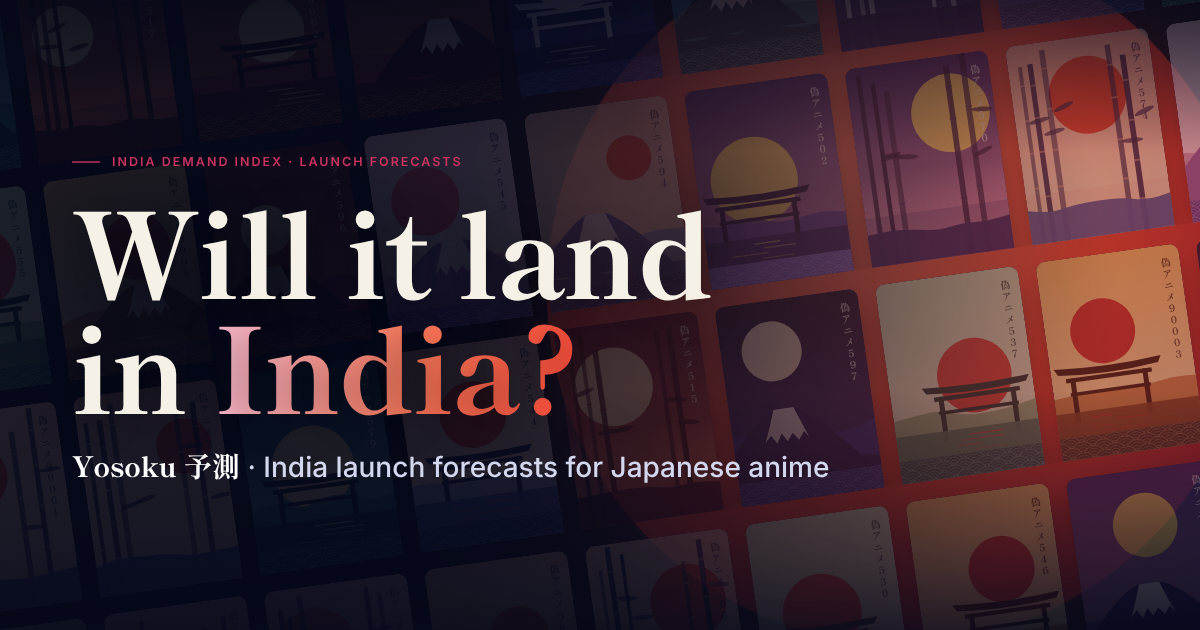
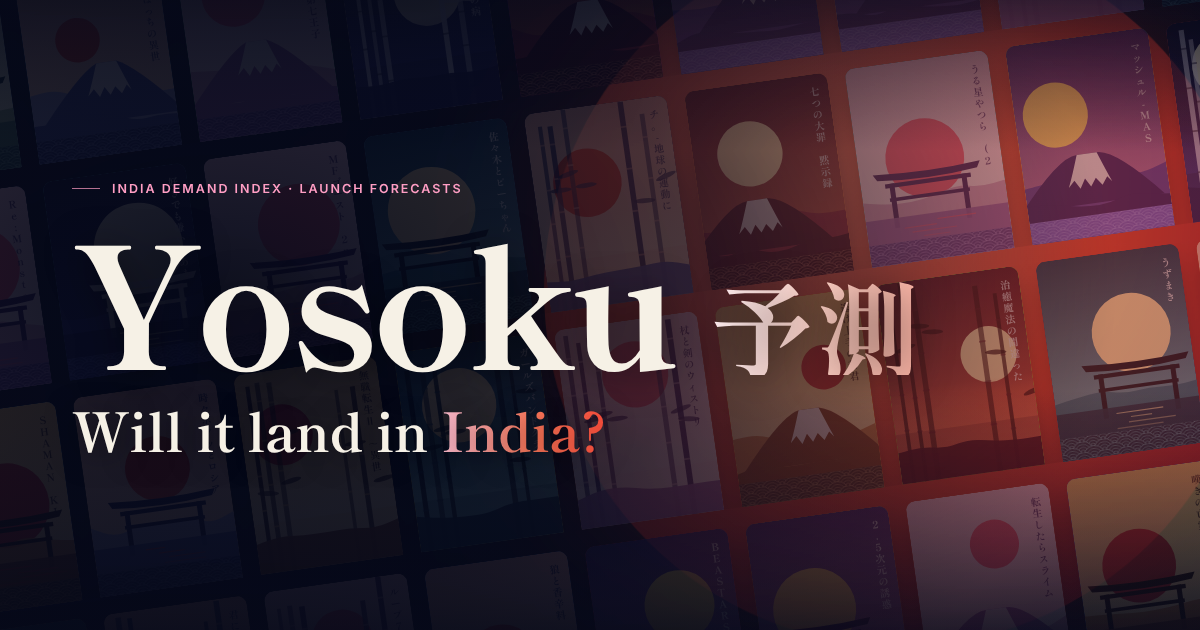
Site: Yosoku wordmark leads the overview; Demand guide moves to the last tab
The overview now opens on a large 'Yosoku 予測' wordmark with the question beneath it.
The Demand guide is the last tab, and its 'What this can't see' section is removed.
Share image regenerated to match.

diff --git a/web/index.html b/web/index.html
@@ -35,10 +35,10 @@
     </a>
     <nav class="tabs" id="tabs" role="tablist" aria-label="Pages">
       <a role="tab" id="tab-home" href="#/" data-page="home" aria-controls="page-home" aria-selected="false"><svg width="22" height="22" viewBox="0 0 24 24" aria-hidden="true"><path d="M4 11.5 12 5l8 6.5V19a1 1 0 0 1-1 1h-4v-5H9v5H5a1 1 0 0 1-1-1v-7.5Z"/></svg><span>Overview</span></a>
-      <a role="tab" id="tab-guide" href="#/guide" data-page="guide" aria-controls="page-guide" aria-selected="false"><svg width="22" height="22" viewBox="0 0 24 24" aria-hidden="true"><circle cx="12" cy="12" r="8"/><path d="m15.5 8.5-2 5-5 2 2-5 5-2Z"/></svg><span><span class="tab-long">Demand guide</span><span class="tab-short">Guide</span></span></a>
       <a role="tab" id="tab-forecasts" href="#/forecasts" data-page="forecasts" aria-controls="page-forecasts" aria-selected="false"><svg width="22" height="22" viewBox="0 0 24 24" aria-hidden="true"><rect x="4" y="4" width="7" height="7" rx="1.5"/><rect x="13" y="4" width="7" height="7" rx="1.5"/><rect x="4" y="13" width="7" height="7" rx="1.5"/><rect x="13" y="13" width="7" height="7" rx="1.5"/></svg><span>Forecasts</span></a>
       <a role="tab" id="tab-record" href="#/record" data-page="record" aria-controls="page-record" aria-selected="false"><svg width="22" height="22" viewBox="0 0 24 24" aria-hidden="true"><path d="M4 19V5M4 19h16M8 15l3-4 3 2 5-6"/></svg><span>Track record</span></a>
       <a role="tab" id="tab-method" href="#/method" data-page="method" aria-controls="page-method" aria-selected="false"><svg width="22" height="22" viewBox="0 0 24 24" aria-hidden="true"><circle cx="12" cy="12" r="8"/><path d="M12 11v5M12 8v.01"/></svg><span>Method</span></a>
+      <a role="tab" id="tab-guide" href="#/guide" data-page="guide" aria-controls="page-guide" aria-selected="false"><svg width="22" height="22" viewBox="0 0 24 24" aria-hidden="true"><circle cx="12" cy="12" r="8"/><path d="m15.5 8.5-2 5-5 2 2-5 5-2Z"/></svg><span><span class="tab-long">Demand guide</span><span class="tab-short">Guide</span></span></a>
     </nav>
     <button class="icon-btn" id="theme-toggle" type="button" aria-label="Switch to light theme" title="Switch theme">
       <svg class="i-moon" viewBox="0 0 24 24" aria-hidden="true"><path d="M20 14.5A8 8 0 0 1 9.5 4a8.5 8.5 0 1 0 10.5 10.5Z"/></svg>
@@ -58,7 +58,8 @@
       <canvas class="petals" id="petals" aria-hidden="true"></canvas>
       <div class="hero-inner">
         <p class="eyebrow">India Demand Index · launch forecasts</p>
-        <h1 id="hero-title">Will it land<br>in <em>India?</em></h1>
+        <h1 id="hero-title" class="wordmark"><span class="wm-latin">Yosoku</span> <span class="wm-kanji" lang="ja">予測</span></h1>
+        <p class="hero-question">Will it land in <em>India?</em></p>
         <p class="hero-lead">Yosoku predicts how Japanese anime will perform in India <strong>before</strong> the launch decision is made, with a verdict for every title and the evidence behind it.</p>
         <div class="hero-cta">
           <a class="btn btn-primary" href="#/forecasts">Explore the forecasts <svg viewBox="0 0 24 24" aria-hidden="true"><path d="M5 12h14M13 6l6 6-6 6"/></svg></a>
@@ -68,17 +69,6 @@
         <dl class="hero-stats" id="hero-stats"></dl>
       </div>
       <svg class="hero-edge" viewBox="0 0 1440 120" preserveAspectRatio="none" aria-hidden="true"><path d="M0 120V70c60-30 120-30 180 0s120 30 180 0 120-30 180 0 120 30 180 0 120-30 180 0 120 30 180 0 120-30 180 0 120 30 180 0V120Z"/></svg>
-    </section>
-    </div>
-
-    <div class="page" id="page-guide" data-page="guide" role="tabpanel" aria-labelledby="tab-guide" hidden>
-    <section class="section" id="guide" aria-labelledby="guide-title">
-      <header class="section-head reveal">
-        <p class="eyebrow">Demand guide</p>
-        <h1 id="guide-title">What is India actually watching?</h1>
-        <p class="lead">For anyone deciding where demand lies, including those whose own title is unlikely to work. Built only from what India has watched and said: Netflix India's weekly Top 10 and the trailer comments we counted.</p>
-      </header>
-      <div id="guide-body" class="guide"></div>
     </section>
     </div>
 
@@ -116,6 +106,16 @@
         <p class="lead">Public data only, measured over the first 28 days after the Japanese premiere. It measures attention in India, not revenue.</p>
       </header>
       <div id="method-body" class="method"></div>
+    </section>
+    </div>
+    <div class="page" id="page-guide" data-page="guide" role="tabpanel" aria-labelledby="tab-guide" hidden>
+    <section class="section" id="guide" aria-labelledby="guide-title">
+      <header class="section-head reveal">
+        <p class="eyebrow">Demand guide</p>
+        <h1 id="guide-title">What is India actually watching?</h1>
+        <p class="lead">For anyone deciding where demand lies, including those whose own title is unlikely to work. Built only from what India has watched and said: Netflix India's weekly Top 10 and the trailer comments we counted.</p>
+      </header>
+      <div id="guide-body" class="guide"></div>
     </section>
     </div>
   </main>

diff --git a/web/css/style.css b/web/css/style.css
@@ -168,14 +168,18 @@ code { font: 500 0.88em ui-monospace, SFMono-Regular, Menlo, monospace; padding:
 }
 .eyebrow::before { content: ""; width: 28px; height: 1.5px; background: currentColor; opacity: 0.7; }
 .hero h1 {
-  font: 800 clamp(52px, 10vw, 128px)/0.98 var(--font-display); letter-spacing: -0.015em; text-wrap: balance;
-  text-shadow: 0 4px 40px rgba(0, 0, 0, 0.45);
+  display: flex; flex-wrap: wrap; align-items: baseline; gap: 0 0.2em;
+  font: 800 clamp(66px, 13vw, 184px)/0.95 var(--font-display); letter-spacing: -0.025em; text-shadow: 0 4px 40px rgba(0, 0, 0, 0.45);
 }
-.hero h1 em {
+.hero h1 .wm-kanji { font-size: 0.62em; font-weight: 700; letter-spacing: 0.02em; }
+.hero h1 .wm-kanji, .hero-question em {
   font-style: normal; background: linear-gradient(95deg, #ffc2d8 0%, #ff7a5c 55%, #ff4d3b 100%);
   -webkit-background-clip: text; background-clip: text; color: transparent;
 }
-.hero-lead { max-width: 560px; margin-top: 28px; font-size: clamp(16px, 1.7vw, 19px); line-height: 1.65; color: var(--muted); }
+/* The kanji sits over the red sun on wide screens, so it stays lighter than the "India?" gradient. */
+.hero h1 .wm-kanji { background-image: linear-gradient(95deg, #fff0f4 0%, #ffd0c4 55%, #ffb3a3 100%); }
+.hero-question { margin-top: clamp(14px, 2vw, 24px); font: 700 clamp(28px, 4.4vw, 62px)/1.08 var(--font-display); letter-spacing: -0.01em; text-wrap: balance; text-shadow: 0 4px 30px rgba(0, 0, 0, 0.5); }
+.hero-lead { max-width: 560px; margin-top: clamp(18px, 2.4vw, 28px); font-size: clamp(16px, 1.7vw, 19px); line-height: 1.65; color: var(--muted); }
 .hero-lead strong { color: var(--text); font-weight: 600; }
 .hero-cta { display: flex; flex-wrap: wrap; gap: 12px; margin-top: 36px; }
 .btn {
@@ -624,13 +628,6 @@ svg.scatter { display: block; overflow: visible; }
 .tries b { font-variant-numeric: tabular-nums; }
 .tries em { min-width: 44px; text-align: right; font-style: normal; font-weight: 700; color: var(--launch); font-variant-numeric: tabular-nums; }
 
-.limits { display: grid; grid-template-columns: minmax(0, 1.6fr) minmax(0, 1fr); gap: clamp(24px, 4vw, 56px); margin-top: 22px; }
-.limits li { padding: 14px 0; border-bottom: 1px solid var(--line); color: var(--muted); font-size: 14.5px; line-height: 1.6; }
-.limits li b { color: var(--text); }
-.next { padding: 24px; border-radius: 22px; background: var(--surface); border: 1px solid var(--line); align-self: start; }
-.next li { padding: 10px 0 10px 22px; position: relative; border: 0; }
-.next li::before { content: ""; position: absolute; left: 0; top: 19px; width: 8px; height: 8px; border-radius: 50%; background: var(--accent); }
-.next h3 { margin-bottom: 6px; }
 
 /* ------------------------------------------------------------------ footer, tooltip, toast */
 
@@ -654,7 +651,6 @@ svg.scatter { display: block; overflow: visible; }
 /* ------------------------------------------------------------------ responsive */
 
 @media (max-width: 960px) {
-  .limits { grid-template-columns: 1fr; }
   .record-grid { grid-template-columns: 1fr; }
   .regions { grid-template-columns: 1fr; }
   .map-wrap { max-width: 380px; margin: 0 auto; }

diff --git a/web/js/content.js b/web/js/content.js
@@ -23,21 +23,3 @@ export const SOURCES = [
   { name: "AniList metadata", tells: "Genres, tags, source, studio, audience and sequel links.",
     bias: "Today's popularity and score include the outcome, so they are never model inputs.", reliability: "Reliable; audience tags are the only age proxy in public data." },
 ];
-
-// The Demand guide's honest limits, and what would fix them.
-export const LIMITS = [
-  { title: "Small numbers.", body: "Only a handful of anime have reached India's weekly chart, so a gap between two bars can be one or two titles. Read the patterns as leads, not proof." },
-  { title: "One chart.", body: "Netflix India is the only service whose weekly chart we can read. Crunchyroll, Prime Video, JioHotstar and TV channels publish nothing we can use, so what finds its audience there is invisible here." },
-  { title: "Kids and family anime.", body: "Long-running kids' anime reaches India largely through TV channels, so family titles are under-counted. This shows what works on a streaming chart, not all of India." },
-  { title: "Who is watching.", body: "Netflix publishes no viewer ages or cities. “Made for” is the audience a title is aimed at, and regions come only from the language of trailer comments." },
-  { title: "Which titles.", body: "We follow the 50 most popular anime of each season from 2019 to 2025. Niche titles are not in the data." },
-  { title: "Attention, not money.", body: "Reaching the chart means people watched. It does not say what a title earned." },
-];
-
-export const NEXT = [
-  "Charts or partner data from other platforms, to see beyond Netflix.",
-  "TV ratings for kids' and family anime, to cover the audience Netflix misses.",
-  "Which titles have Hindi, Tamil or Telugu dubs, and when they arrived.",
-  "A viewer survey for ages and cities, which no platform publishes.",
-  "More comments, in more Indian languages, to firm up the regional picture.",
-];

diff --git a/web/js/guide.js b/web/js/guide.js
@@ -6,7 +6,6 @@ import { esc, pct, round, clamp, titleCase, formatDate } from "./data.js?v=2";
 import { posterHTML } from "./art.js?v=2";
 import { regionMap, bindRegions } from "./charts.js?v=2";
 import { showTip, hideTip } from "./tip.js?v=2";
-import { LIMITS, NEXT } from "./content.js?v=2";
 
 const MIN_TITLES = 8;       // a rate over fewer titles than this says nothing
 const MIN_COMMENTS = 1000;  // likewise for the share of comments that came from India
@@ -135,16 +134,7 @@ export function renderGuide(app, host) {
       <div class="ck-out" id="g-check-out" aria-live="polite"></div>
     </section>`;
 
-  const limits = `
-    <section class="g-block g-limits reveal" aria-labelledby="g-limits">
-      <h2 id="g-limits">What this can't see</h2>
-      <div class="limits">
-        <ul>${LIMITS.map((l) => `<li><b>${esc(l.title)}</b> ${esc(l.body)}</li>`).join("")}</ul>
-        <div class="next"><h3>What we would add next</h3><ul>${NEXT.map((n) => `<li>${esc(n)}</li>`).join("")}</ul></div>
-      </div>
-    </section>`;
-
-  host.innerHTML = headline + hits + patterns + where + checker + limits;
+  host.innerHTML = headline + hits + patterns + where + checker;
 
   // ------------------------------------------------------------ the weekly strip
   const weekly = host.querySelector("#g-weekly");

diff --git a/README.md b/README.md
@@ -134,7 +134,7 @@ python -m http.server -d web 8000  # the dashboard, at http://localhost:8000
 
 ## The website (static, for Vercel)
 
-`web/` is the dashboard, a plain static site (no server, no build step) with five tabs (Overview, Demand guide, Forecasts, Track record, Method):
+`web/` is the dashboard, a plain static site (no server, no build step) with five tabs (Overview, Forecasts, Track record, Method, Demand guide):
 poster wall, a verdict card for every title, an India language-hub map, the backtest and the method. Vercel can
 host it because it is only HTML, CSS, JavaScript and two JSON files.
 
